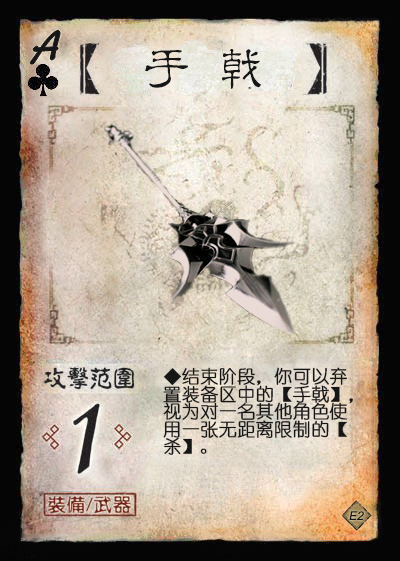
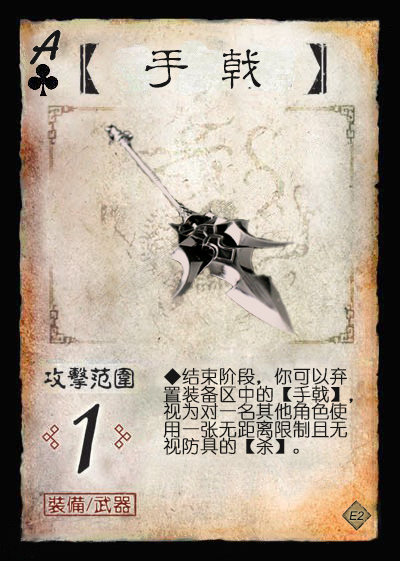
Fix in some cards.

Changed region(s): [[0.39, 0.7576, 0.75, 0.8182], [0.78, 0.7273, 0.87, 0.7879]]

diff --git a/SanGuoSha/SGS-RebirthProject/standard.md b/SanGuoSha/SGS-RebirthProject/standard.md
@@ -89,8 +89,9 @@
 ## 杂注
 
 1. 汉势力的颜色设计为比蜀势力更深的红色，体现汉之“火德”，以及东汉与蜀汉的一脉相承的关系。
-2. 汉势力的势力特色：待设计（TODO）
+2. 汉势力的势力特色
    1. 可选项1：给其他人增加buff或debuff（暗寓汉室至高无上的权力，能轻易使人飞黄腾达或万劫不复）。
+   2. 可选项2：通常借助他人之手产生效果，不自己动手（例如刘协【密诏】），该条与可选项1不冲突。
 
 ## 武将牌
 
@@ -132,12 +133,11 @@
    2. 【遗计】：当你受到1点伤害后，你可以观看牌堆顶的两张牌，然后将这些牌交给任意角色。
 
    > 未作改动。
-9. ![荀彧](./assets/images/heroes/荀彧.jpg) 荀彧 男 魏 3体力 称号：王佐之才
+9. ![荀彧](./assets/images/heroes/荀彧-v2.jpg) 荀彧 男 魏 3体力 称号：王佐之才
    1. 【驱虎】：出牌阶段限一次，你可以与体力值大于你的一名角色拼点：若你赢，你令该角色对其攻击范围内的另一名角色造成1点伤害；若你没赢，其对你造成1点伤害。
    2. 【节命】：当你受到伤害后，你可以令一名其他角色摸X张牌（X为其已损失的体力值且至少为1，至多为4），然后你摸一张牌。
 
-   > 标准包中拼点系统的代表武将  
-   > TODO: 与印刷版本不一致，修改卡图
+   > 标准包中拼点系统的代表武将
 10. ![甄姬](./assets/images/heroes/甄姬.jpg) 甄姬 女 魏 3体力 称号：薄幸的美人
     1. 【倾国】：你可以将一张黑色手牌当【闪】使用或打出。
     2. 【洛神】：准备阶段，你可以进行判定。当黑色判定牌生效后，你获得之。若结果为黑色，你可以重复此流程。
@@ -229,7 +229,8 @@
    1. 【克己】：若你未于出牌阶段内使用或打出过【杀】，则你可以跳过弃牌阶段。
    2. 【谋断】：若你于出牌阶段使用了四张至少三种不同花色的牌，你可以于此回合结束后，获得一个额外的回合。
 
-   > TODO：测试【谋断】的强度。
+   > TODO：测试【谋断】的强度。  
+   > TODO：修改为“手牌上限+10”？
 8. ![黄盖](./assets/images/heroes/黄盖.jpg) 黄盖 男 吴 4体力 称号：轻身为国
    1. 【苦肉】：出牌阶段限一次，你可以令一名角色对你造成1点伤害，然后该角色摸两张牌。
    2. 【诈降】：**锁定技**，在你的回合内，你每受到1点伤害，本回合内你使用【杀】的次数上限+1。

diff --git a/SanGuoSha/SGS-RebirthProject/ext1.md b/SanGuoSha/SGS-RebirthProject/ext1.md
@@ -145,13 +145,11 @@
    1. 【黄巾】：**锁定技**，若你的装备区里没有防具牌，你视为装备着【黄头巾】。
    2. 【符篆】：出牌阶段限一次，你可以将一张黑色锦囊牌当【黄巾雷符】使用，然后摸一张牌。
    3. 【助祭】：当一名角色造成雷电伤害时，你可以令其进行判定，若结果为：黑色，该角色获得此牌；红色，你获得此牌。
-5. ![刘宏](./assets/images/heroes/刘宏.jpg) 刘宏 男 汉 5体力 称号：汉灵帝
+5. ![刘宏](./assets/images/heroes/刘宏-v2.jpg) 刘宏 男 汉 5体力 称号：汉灵帝
    1. 【鬻爵】：其他角色的出牌阶段限一次，该角色可以展示并交给你一张牌。若此牌为：黑色，其弃置场上的一张牌；红色，其摸一张牌。
-   2. 【党锢】：**锁定技**，摸牌阶段，你改为令所有手牌数大于你的其他角色依次选择一项：交给你一张牌，或本回合所有非锁定技失效。
-   3. 【裸游】：**锁定技**，结束阶段，你展示所有手牌，然后你观看一名女性角色的所有手牌。
-   4. 【天威】：**主公技**，准备阶段，你可以弃置一张牌，移去一名角色判定区内的一张牌。
+   2. 【党锢】：**锁定技**，摸牌阶段，你少摸一张牌，然后令所有手牌数大于你的其他角色依次选择一项：交给你一张牌，或本回合所有非锁定技失效。
+   3. 【天威】：**主公技**，准备阶段，你可以弃置一张牌，移去一名角色判定区内的一张牌。
 
-   > 【裸游】出处：“帝盛夏避暑于裸游馆，长夜饮宴。  ——《拾遗记》”
    > 目标是设计为高体力带有负面技能的武将，符合三国杀对昏君/暴君的设计惯例（董卓、孙晧）
 
 6. ![张让](./assets/images/heroes/张让.jpg) 张让 男 汉 3体力 称号：窃幸绝禋
@@ -160,6 +158,7 @@
 
    > 【潜听】出处：“又张让等使人潜听，具闻其语。 ——《后汉书·窦何列传第五十九》”。  
    > 【滔乱】视为使用的牌仍然存在（可以再使用一次）。  
+   > 若【滔乱】给出的牌为装备或延时锦囊牌，则由于不存在对应的实体牌，“视为使用的”效果不会被触发。  
    > 【滔乱】设计思路与官方类似，表现宦官凭借皇权作威作福的特点。  
    > TODO：需要实际测试强度（初版强度过弱，增强为现版）。
 7. ![皇甫嵩](./assets/images/heroes/皇甫嵩.jpg) 皇甫嵩 男 汉 4体力 称号：志定雪霜

diff --git a/SanGuoSha/SGS-RebirthProject/warehouse.md b/SanGuoSha/SGS-RebirthProject/warehouse.md
@@ -78,6 +78,7 @@
 31. 【鬻爵】：出牌阶段限一次，你可以摸一张牌，然后展示一张手牌，然后每名其他角色可以扣置一张手牌。若有角色如此做，则所有角色同时展示扣置的牌，点数最大的角色获得你展示的手牌。
 32. 【英语】：每当你使用一张点数为字母的牌后，你可以摸一张牌。
 33. 【镇卫】：当一张基本牌或锦囊牌对一名角色生效前，你可以弃置一张与此牌花色/点数/牌名相同的牌，抵消此牌对该角色的效果。
+34. 【远交】：出牌阶段限一次，你可以选择一名你与其均不在对方攻击范围内的其他角色，你与其各摸一张牌。
 
 ## 武将仓库
 
@@ -177,6 +178,9 @@
     > 【胜论】对应的是曹操官渡之战前对强大的袁绍缺乏信心，郭嘉提出“十胜十败”之论建言献策的典故。“一名其他角色受到伤害后”反映了主公的危急时刻，后续的操作表现郭嘉之胸有成竹：“给你一个计策，按照我说的XXX去做，此战必胜”（强命效果代表“算无遗策”），注意声明的牌不一定要和给出的“策”一致，可以根据目标的手牌指定合适的牌。另一个选项则表现if世界线：曹操被吕布附体，不听建议，只会摸一张牌。  
     > 【胜论】与曹操的契合程度较好：曹操的弱点是手里大量【杀】一回合打不出去以及害怕被乐，【胜论】可以帮助曹操直接把输出牌打出去，并且附加一个强命效果。想象场景：袁绍先对曹操使用【乐不思蜀】，然后用【杀】【过河拆桥】当万箭使用，曹操收了牌也无法使用。此时有神郭嘉，就可以让曹操直接使用【杀】或【过河拆桥】反击袁绍。  
     > 【鬼谋】显然对应的是郭嘉遗计定辽东，预言孙策死亡等事迹。实际使用中，“策”的威慑可以给神郭嘉一定保命能力。  
+21. 刘徽 男 魏 3体力
+    1. 【章注】：TODO（作《九章算术注》事迹，增强或削弱其他牌的效果）
+    2. 【割圆】：TODO（当你造成或受到一名其他角色的伤害后，你可以指定另一名位于你和该角色中点位置的角色，你选择一项：获得其一张牌，或令其摸一张牌。）（“中点”体现割圆术）
 
 ## 卡牌仓库
 

diff --git a/SanGuoSha/SGS-RebirthProject/ext2.md b/SanGuoSha/SGS-RebirthProject/ext2.md
@@ -54,7 +54,8 @@
 
 > 说明：  
 > 1.与官方标准版+军争篇相比，该扩展包有更多的【酒】（3+5=8张）和【桃】（8+6=14张），使用【鸩毒】来进行平衡。  
-> 2.与官方标准版+军争篇相比，该扩展包杀闪比更低（标准44/24=1.833，该扩展42/26=1.615），同样降低了【酒】增加伤害的几率，平衡【酒】过多带来的影响；同时，强命系武将的价值有所提高。
+> 2.与官方标准版+军争篇相比，该扩展包杀闪比更低（标准44/24=1.833，该扩展42/26=1.615），同样降低了【酒】增加伤害的几率，平衡【酒】过多带来的影响；同时，强命系武将的价值有所提高。  
+> 3.与官方标准版+军争篇相比，该扩展锦囊比例偏低（标准31.06%，该扩展28.66%），且包含【鸩毒】等无法直接使用的锦囊。依赖锦囊的武将价值有所降低。
 
 ### 游戏牌说明
 
@@ -67,10 +68,10 @@
 2. ![鸩毒](./assets/images/cards/鸩毒.png) 【鸩毒】：锦囊，普通  
    当一名角色使用【桃】/【酒】时，对其使用。该角色选择一项：取消此【桃】/【酒】的效果；或失去1点体力。
 3. ![笑里藏刀](./assets/images/cards/笑里藏刀.png) 【笑里藏刀】：锦囊，普通  
-   出牌阶段，对一名其他角色使用。该角色摸X张牌（X为其已损失的体力值且至多为4），然后你对其造成1点伤害。
+   出牌阶段，对一名角色使用。该角色摸X张牌（X为其已损失的体力值且至多为4），然后你对其造成1点伤害。
 
    > 引文：“信而安之，阴而图之；备而后动，勿使有变。刚中柔外也。” ——《三十六计》
-   > 照搬官方王允的【笑里藏刀】锦囊牌效果。  
+   > 基本照搬官方王允的【笑里藏刀】锦囊牌效果。  
    > TODO：当前效果并不太克制董卓，可能需要修改。
 4. ![手戟](./assets/images/cards/手戟.png) 【手戟】：装备，武器 攻击范围：1  
    结束阶段，你可以弃置装备区中的【手戟】，视为对一名其他角色使用一张无距离限制且无视防具的【杀】。

diff --git a/SanGuoSha/SGS-RebirthProject/old-versions.md b/SanGuoSha/SGS-RebirthProject/old-versions.md
@@ -1,0 +1,14 @@
+# 废弃的旧版设计
+
+1. ![刘宏](./assets/images/heroes/刘宏.jpg) 刘宏 男 汉 5体力 称号：汉灵帝
+   1. 【鬻爵】：其他角色的出牌阶段限一次，该角色可以展示并交给你一张牌。若此牌为：黑色，其弃置场上的一张牌；红色，其摸一张牌。
+   2. 【党锢】：**锁定技**，摸牌阶段，你改为令所有手牌数大于你的其他角色依次选择一项：交给你一张牌，或本回合所有非锁定技失效。
+   3. 【裸游】：**锁定技**，结束阶段，你展示所有手牌，然后你观看一名女性角色的所有手牌。
+   4. 【天威】：**主公技**，准备阶段，你可以弃置一张牌，移去一名角色判定区内的一张牌。
+
+   > 【裸游】出处：“帝盛夏避暑于裸游馆，长夜饮宴。  ——《拾遗记》”
+   > 目标是设计为高体力带有负面技能的武将，符合三国杀对昏君/暴君的设计惯例（董卓、孙晧）
+
+2. ![荀彧](./assets/images/heroes/荀彧.jpg) 荀彧 男 魏 3体力 称号：王佐之才
+   1. 【驱虎】：出牌阶段限一次，你可以与体力值大于你的一名角色拼点：若你赢，你令该角色对其攻击范围内的另一名角色造成1点伤害；若你没赢，其对你造成1点伤害。
+   2. 【节命】：当你受到伤害后，你可以令一名角色将手牌摸至三张。

diff --git a/SanGuoSha/SGS-RebirthProject/ext3.md b/SanGuoSha/SGS-RebirthProject/ext3.md
@@ -37,7 +37,7 @@
 ## 武将
 
 1. ![华雄](./assets/images/heroes/华雄.jpg) 华雄 男 群 4体力
-   1. 【搦战】：准备阶段，你可以选择一名其他角色，该角色选择一项：令你弃置其一张手牌，或视为你对其使用了一张【决斗】。
+   1. 【搦战】：准备阶段，你可以视为使用一张【决斗】。该【决斗】的结算中，你每次需打出两张【杀】。
    2. 【耀武】：TODO
 
    > TODO: 需要实际测试强度。

diff --git a/SanGuoSha/SGS-RebirthProject/main.md b/SanGuoSha/SGS-RebirthProject/main.md
@@ -83,7 +83,11 @@
    2. SP武将：董卓
    3. 已在标准版或主扩展中出现的武将：皇甫嵩
    4. 神武将：无
-2. TODO
+2. 三教九流
+   1. 武将：于吉、左慈、马钧、蒲元、张仲景、刘徽、赵爽、TODO
+   2. SP武将：无
+   3. 已在标准版或主扩展中出现的武将：华佗
+   4. 神武将：无
 
 ## 参考资料
 

diff --git a/SanGuoSha/SGS-RebirthProject/real-cards.md b/SanGuoSha/SGS-RebirthProject/real-cards.md
@@ -1,0 +1,6 @@
+# 实体牌相关事项（待修改及已完成修改）
+
+1. [ ] 扩展1：卢植卡面技能名错误
+2. [ ] 标准：荀彧技能改动（版本2）
+3. [ ] 扩展1：刘宏技能改动（版本2）
+4. [ ] 扩展2：打印实体牌
